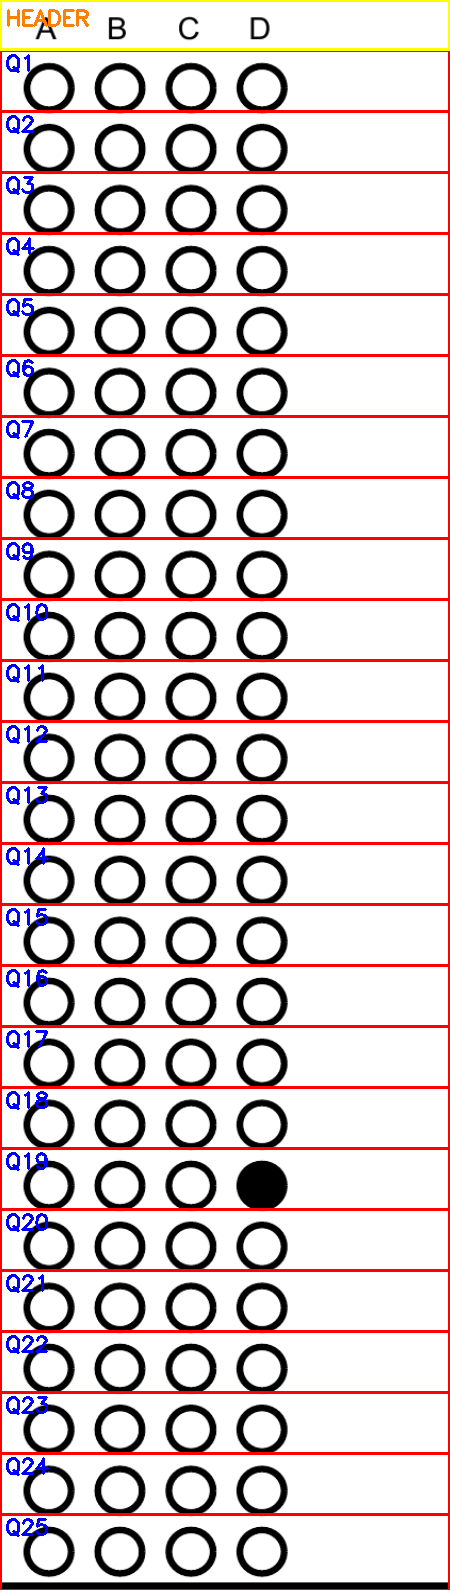
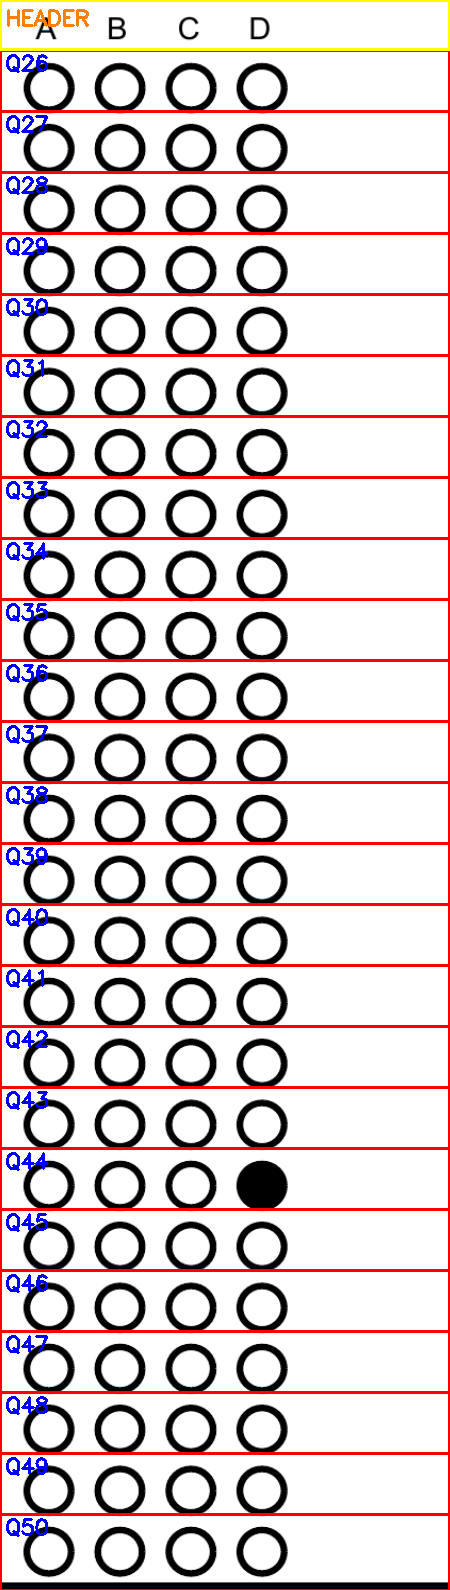
Enhance question numbering in row mapping for improved clarity in debug images

diff --git a/scripts/pdf_processor_stud_answer.py b/scripts/pdf_processor_stud_answer.py
@@ -339,6 +339,7 @@ class StudentAnswerProcessor:
         Always skips the header area as defined in config.
         Uses fixed row height for robust mapping.
         Starts rows exactly at the header's bottom edge.
+        Row labels reflect the actual question numbers for each column.
         """
         import numpy as np
         import cv2
@@ -355,21 +356,30 @@ class StudentAnswerProcessor:
         if not header_height or header_height >= h:
             header_height = int(h * 0.06)
 
+        # Determine the starting question number for this column
+        start_question = 1
+        if CONFIG_AVAILABLE and col_idx is not None:
+            from field_coordinates_config import COLUMN_CONFIG
+            max_per_col = COLUMN_CONFIG.get('max_questions_per_column', 25)
+            start_question = col_idx * max_per_col + 1
+
         # Start rows at header's bottom edge
         answer_area_height = h - header_height
         row_height = answer_area_height // num_questions
         row_boxes = []
+        question_numbers = []
         for i in range(num_questions):
             y1 = header_height + i * row_height
             y2 = header_height + (i + 1) * row_height if i < num_questions - 1 else h
             row_boxes.append((y1, y2))
+            question_numbers.append(start_question + i)
 
         # Debug visualization
         if debug and output_path:
             debug_img = cv2.cvtColor(column_img, cv2.COLOR_GRAY2BGR)
             for idx, (y1, y2) in enumerate(row_boxes):
                 cv2.rectangle(debug_img, (0, y1), (w-1, y2), (0, 0, 255), 2)
-                cv2.putText(debug_img, f"Q{idx+1}", (5, y1+20), cv2.FONT_HERSHEY_SIMPLEX, 0.7, (255,0,0), 2)
+                cv2.putText(debug_img, f"Q{question_numbers[idx]}", (5, y1+20), cv2.FONT_HERSHEY_SIMPLEX, 0.7, (255,0,0), 2)
             cv2.imwrite(output_path, debug_img)
             logger.info(f"Saved row mapping debug image: {output_path}")
 
@@ -389,10 +399,21 @@ class StudentAnswerProcessor:
         # Draw row mapping as before
         row_boxes = self.map_rows_in_column(column_img, num_questions=num_questions, col_idx=col_idx)
         h, w = column_img.shape
+
+        # Determine the starting question number for this column
+        question_numbers = []
+        if CONFIG_AVAILABLE and col_idx is not None:
+            from field_coordinates_config import COLUMN_CONFIG
+            max_per_col = COLUMN_CONFIG.get('max_questions_per_column', 25)
+            start_question = col_idx * max_per_col + 1
+            question_numbers = [start_question + i for i in range(num_questions)]
+        else:
+            question_numbers = [i + 1 for i in range(num_questions)]
+
         debug_img = cv2.cvtColor(column_img, cv2.COLOR_GRAY2BGR)
         for idx, (y1, y2) in enumerate(row_boxes):
             cv2.rectangle(debug_img, (0, y1), (w-1, y2), (0, 0, 255), 2)
-            cv2.putText(debug_img, f"Q{idx+1}", (5, y1+20), cv2.FONT_HERSHEY_SIMPLEX, 0.7, (255,0,0), 2)
+            cv2.putText(debug_img, f"Q{question_numbers[idx]}", (5, y1+20), cv2.FONT_HERSHEY_SIMPLEX, 0.7, (255,0,0), 2)
 
         # Draw header area if col_idx and corrected_image are provided
         if col_idx is not None and corrected_image is not None and CONFIG_AVAILABLE:
